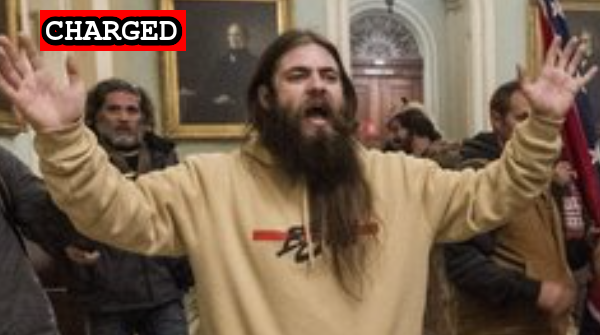
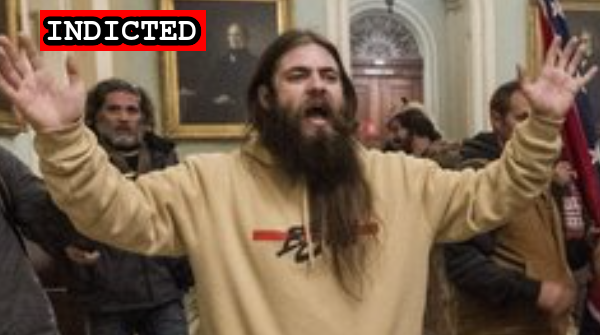
Latest import

Changed region(s): [[0.06, 0.0299, 0.36, 0.1493]]

diff --git a/docs/_suspects/jessica-watkins.md b/docs/_suspects/jessica-watkins.md
@@ -29,6 +29,8 @@ author: seditiontrack
 layout: suspect
 published: true
 caseNumber: 1:21-cr-28
+videos:
+charges:
 ---
 - [News Report](https://www.whio.com/news/local/2-arrested-by-feds-possibly-linked-riot-washington-dc/TBMLXSMEQ5HGDNQW4KCWJGAD6A)
 - [FBI Raid](https://www.whio.com/news/local/fbi-surrounds-champaign-county-apartment-connection-dc-riots-man-says/6XNF3MMRJBDYFFZXBHLICKY2OE/)
@@ -36,7 +38,7 @@ caseNumber: 1:21-cr-28
 - [Statement of Facts](https://www.justice.gov/opa/page/file/1360991/download)
 - [Complaint](https://www.justice.gov/opa/page/file/1356101/download)
 - [DOJ Press Release](https://www.justice.gov/opa/pr/three-individuals-affiliated-oath-keepers-indicted-federal-court-conspiracy-obstruct)
-- [Indictment](https://www.justice.gov/usao-dc/case-multi-defendant/file/1378526/download)
+- [Indictment](https://www.justice.gov/usao-dc/case-multi-defendant/file/1415481/download)
 - [Military Service](https://www.buzzfeednews.com/article/jessicagarrison/oath-keeper-transgender-jail-jessica-watkins)
 - [Defense Motion for Release](https://extremism.gwu.edu/sites/g/files/zaxdzs2191/f/Jessica%20Marie%20Watkins%20Defense%20Motion%20for%20Release%20to%20Home%20Confinement.pdf)
 - [Government Opposition to Reconsideration of Release](https://extremism.gwu.edu/sites/g/files/zaxdzs2191/f/Jessica%20Watkins%20Governments%20Opposition%20to%20Defendants%20Motion%20to%20Reconsider%20Detention.pdf)

diff --git a/docs/_suspects/cindy-fitchett.md b/docs/_suspects/cindy-fitchett.md
@@ -31,16 +31,15 @@ published: true
 caseNumber: 1:21-cr-41
 videos:
 charges:
-  - code: '18 USC § 5104(e)(2)(G)'
-    title: 'Parading, Demonstrating or Picketing in a Capitol Building'
-    url: 'https://www.law.cornell.edu/uscode/text/40/5104'
-    felony: false
+- code: 18 USC § 5104(e)(2)(G)
+  title: Parading, Demonstrating or Picketing in a Capitol Building
+  url: https://www.law.cornell.edu/uscode/text/40/5104
+  felony: false
 ---
-
 - [News Report](https://www.wtvr.com/news/local-news/cindy-fitchett-mathews-virginia-woman-arraigned-on-capitol-riot-charges-pleads-not-guilty)
 - [DOJ Press Release](https://www.justice.gov/opa/pr/thirteen-charged-federal-court-following-riot-united-states-capitol)
 - [Complaint](https://www.justice.gov/opa/press-release/file/1351716/download)
-- [Statement of Facts](https://www.justice.gov/opa/press-release/file/1351721/download)
+- [Statement of Facts](https://www.justice.gov/usao-dc/case-multi-defendant/file/1423411/download)
 - [Indictment](https://www.justice.gov/usao-dc/case-multi-defendant/file/1364786/download)
 - [Information](https://extremism.gwu.edu/sites/g/files/zaxdzs2191/f/Fichett%20et%20al%20Information_0.pdf)
-- [Plea Agreement](https://extremism.gwu.edu/sites/g/files/zaxdzs2191/f/Cindy%20Fitchett%20Plea%20Agreement.pdf)
+- [Plea Agreement](https://www.justice.gov/usao-dc/case-multi-defendant/file/1423406/download)

diff --git a/docs/_suspects/douglas-sweet.md b/docs/_suspects/douglas-sweet.md
@@ -31,16 +31,15 @@ published: true
 caseNumber: 1:21-cr-41
 videos:
 charges:
-  - code: '18 USC § 5104(e)(2)(G)'
-    title: 'Parading, Demonstrating or Picketing in a Capitol Building'
-    url: 'https://www.law.cornell.edu/uscode/text/40/5104'
-    felony: false
+- code: 18 USC § 5104(e)(2)(G)
+  title: Parading, Demonstrating or Picketing in a Capitol Building
+  url: https://www.law.cornell.edu/uscode/text/40/5104
+  felony: false
 ---
-
 - [News Report](https://www.wtkr.com/news/mathews-co-man-arrested-during-capitol-riot-trump-asked-all-the-patriots-to-show-up-so-i-did)
 - [DOJ Press Release](https://www.justice.gov/opa/pr/thirteen-charged-federal-court-following-riot-united-states-capitol)
 - [Complaint](https://www.justice.gov/opa/press-release/file/1351716/download)
-- [Statement of Facts](https://www.justice.gov/opa/press-release/file/1351721/download)
+- [Statement of Facts](https://www.justice.gov/usao-dc/case-multi-defendant/file/1423416/download)
 - [Indictment](https://www.justice.gov/usao-dc/case-multi-defendant/file/1364786/download)
 - [Information](https://extremism.gwu.edu/sites/g/files/zaxdzs2191/f/Fichett%20et%20al%20Information_0.pdf)
-- [Plea Agreement](https://extremism.gwu.edu/sites/g/files/zaxdzs2191/f/Douglas%20Sweet%20Plea%20Agreement.pdf)
+- [Plea Agreement](https://www.justice.gov/usao-dc/case-multi-defendant/file/1423421/download)

diff --git a/docs/_suspects/william-watson.md b/docs/_suspects/william-watson.md
@@ -3,13 +3,13 @@ name: William Watson
 lastName: Watson
 aka:
 residence: Alabama
-status: Charged
+status: Indicted
 date: 2021-01-11
 charged: 2021-01-11
-indicted:
-convicted: 
-sentenced: 
-dismissed: 
+indicted: 2021-08-06
+convicted:
+sentenced:
+dismissed:
 deceased:
 age: 23
 occupation:
@@ -29,6 +29,10 @@ author: seditiontrack
 layout: suspect
 published: true
 caseNumber: 1:21-mj-97
+videos:
+charges:
 ---
+
 - [News Report](https://www.wate.com/news/auburn-man-in-federal-custody-following-u-s-capitol-riot/)
 - [Statement of Facts](https://www.justice.gov/usao-dc/case-multi-defendant/file/1371561/download)
+- [Indictment](https://www.justice.gov/usao-dc/case-multi-defendant/file/1423471/download)
